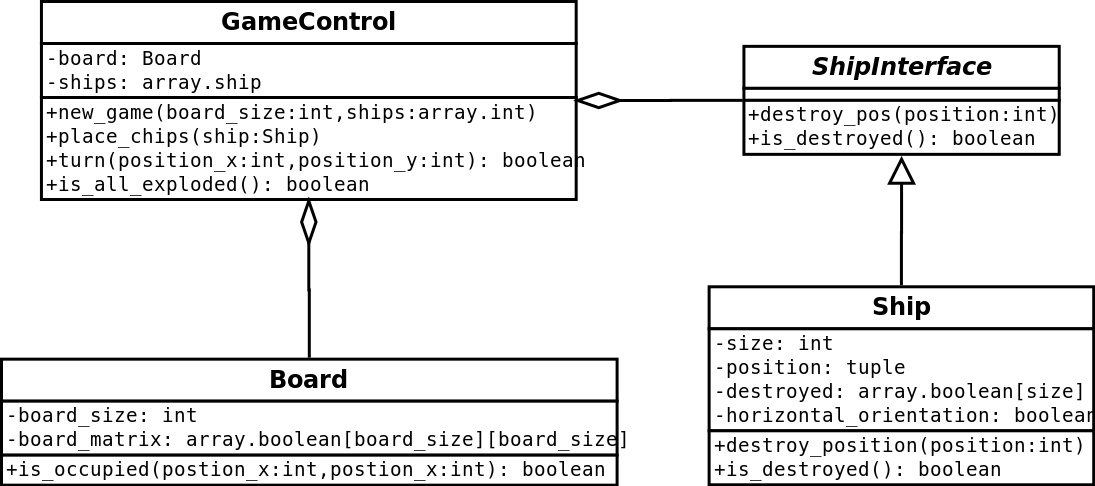
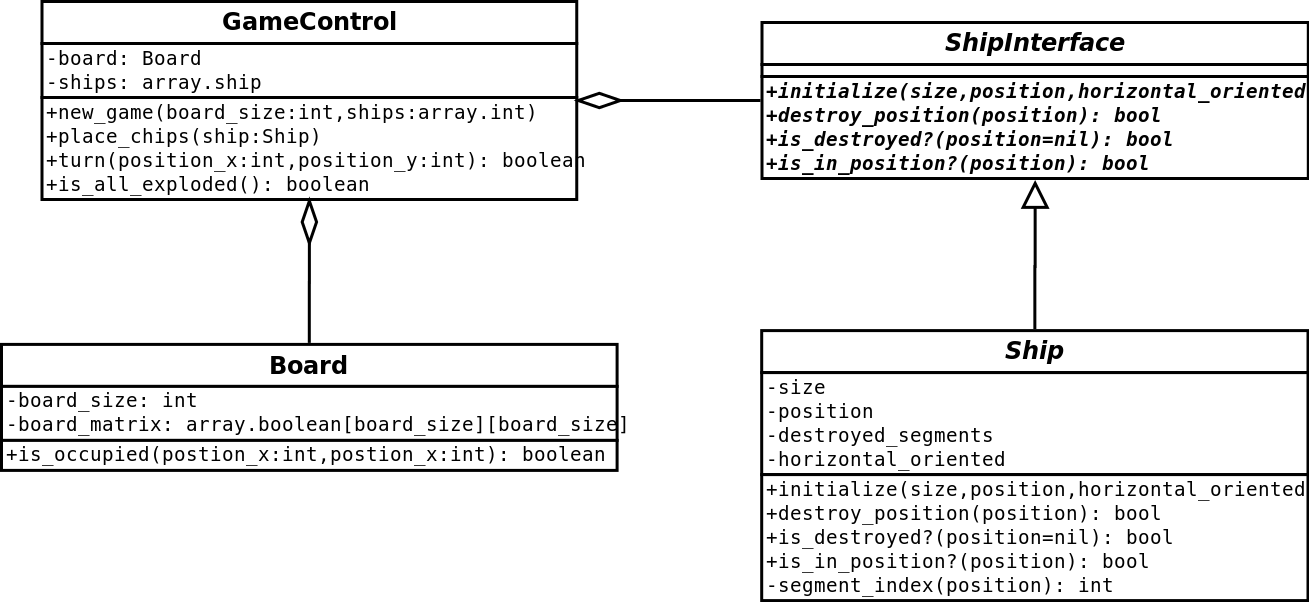
Modificado ShipInterface, implementado Ship, diagrama atualizado.

Changed region(s): [[0.0, 0.0, 1.0, 1.0]]

diff --git a/BatalhaNaval/Ship.rb b/BatalhaNaval/Ship.rb
@@ -1,4 +1,99 @@
+$LOAD_PATH << '.'
+require './ShipInterface.rb'
+
 module NavalBattle
-  class Ship
+  class Ship < NavalBattle::ShipInterface
+    @size
+    @position
+    @destroyed_segments
+    @horizontal_oriented
+
+    attr_reader :destroyed_segments
+
+    def initialize(size, position, horizontal_oriented)
+      if size < 1
+        raise "Argument size is invalid!"
+      end
+      @size = size
+
+      if not position.respond_to?(:[])
+        raise "Argument position is invalid! No [] operator!"
+      elsif not position.respond_to?(:size)
+        raise "Argument position is invalid! No size method!"
+      elsif position.size != 2
+        raise "Argument position is invalid! position.size != 2"
+      end
+      @position = position
+
+      if horizontal_oriented != true and horizontal_oriented != false
+        raise "Argument horizontal_oriented is invalid!"
+      end
+      @horizontal_oriented = horizontal_oriented
+
+      @destroyed_segments = Array.new(@size, false)
+    end
+
+    def destroy_position(position)
+      was_destroyed = false
+
+      if is_in_position?(position)
+        i = segment_index(position)
+        @destroyed_segments[i] = true
+        was_destroyed = true
+      end
+
+      return was_destroyed
+    end
+
+    def is_destroyed?(position = nil)
+      destroyed = false
+
+      if position == nil  # Checks if is fully destroyed.
+        destroyed = true
+        for ship_segment in @destroyed_segments
+          if ship_segment == false
+            destroyed = false
+            break
+          end
+        end
+      elsif is_in_position?(position)  # Checks if position is destroyed.
+          destroyed = @destroyed_segments[segment_index(position)]
+      end
+      return destroyed
+    end
+
+    def is_in_position?(position)
+      in_pos = false
+
+      if @horizontal_oriented == true and position[1] == @position[1]
+        # Goes from left to right.
+        if position[0] >= @position[0] and position[0] < @position[0] + @size
+          in_pos = true
+        end
+      elsif @horizontal_oriented == false and position[0] == @position[0]
+        # Goes from bottom to top.
+        if position[1] >= @position[1] and position[1] < @position[1] + @size
+          in_pos = true
+        end
+      end
+
+      return in_pos
+    end
+
+    private
+
+    def segment_index(position)
+      i = -1
+
+      if is_in_position?(position)
+        if @horizontal_oriented == true
+          i = position[0] - @position[0]
+        else
+          i = position[1] - @position[1]
+        end
+      end
+
+      return i
+    end
   end
 end

diff --git a/BatalhaNaval/ShipInterface.rb b/BatalhaNaval/ShipInterface.rb
@@ -1,11 +1,19 @@
 module NavalBattle
   class ShipInterface
-    def destroy_pos(position)
+    def initialize(size, position, horizontal_oriented)
       raise NotImplementedError "Should be implemented in child class."
     end
 
-    def is_destroyed()
+    def destroy_position(position)
+      raise NotImplementedError "Should be implemented in child class."
+    end
+
+    def is_destroyed(position = nil)
         raise NotImplementedError "Should be implemented in child class."
+    end
+
+    def is_in_position?(position)
+      raise NotImplementedError "Should be implemented in child class."
     end
   end
 end
